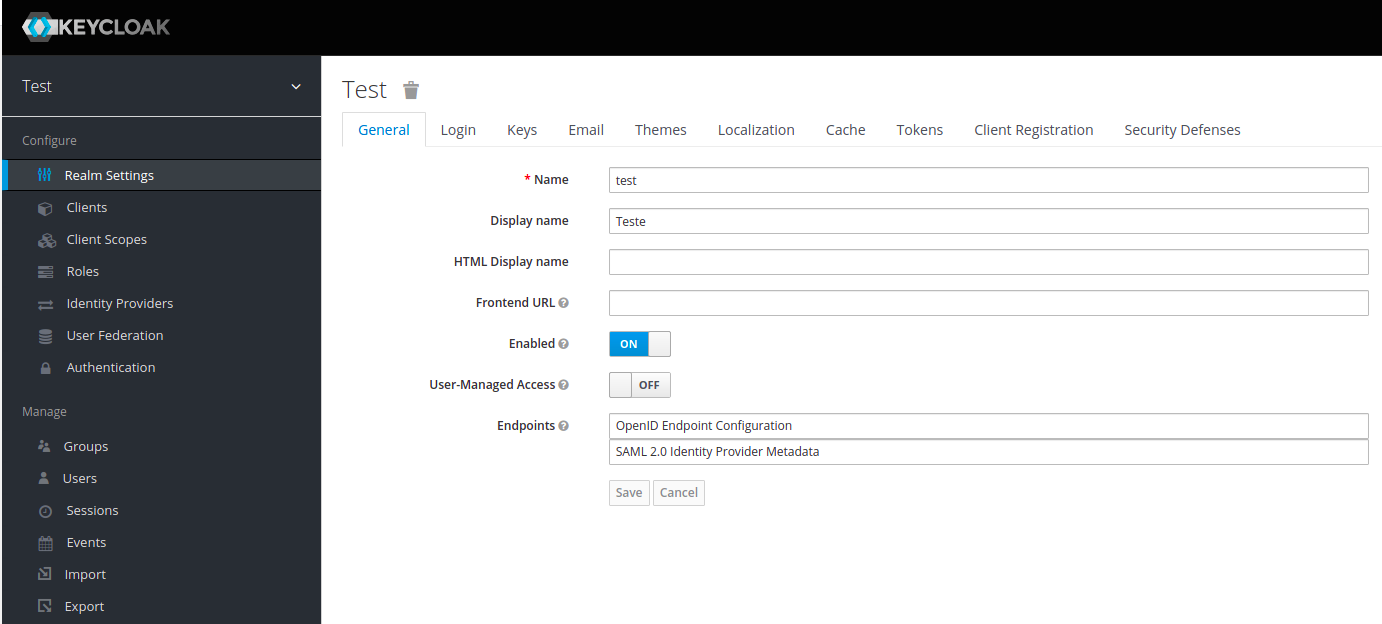
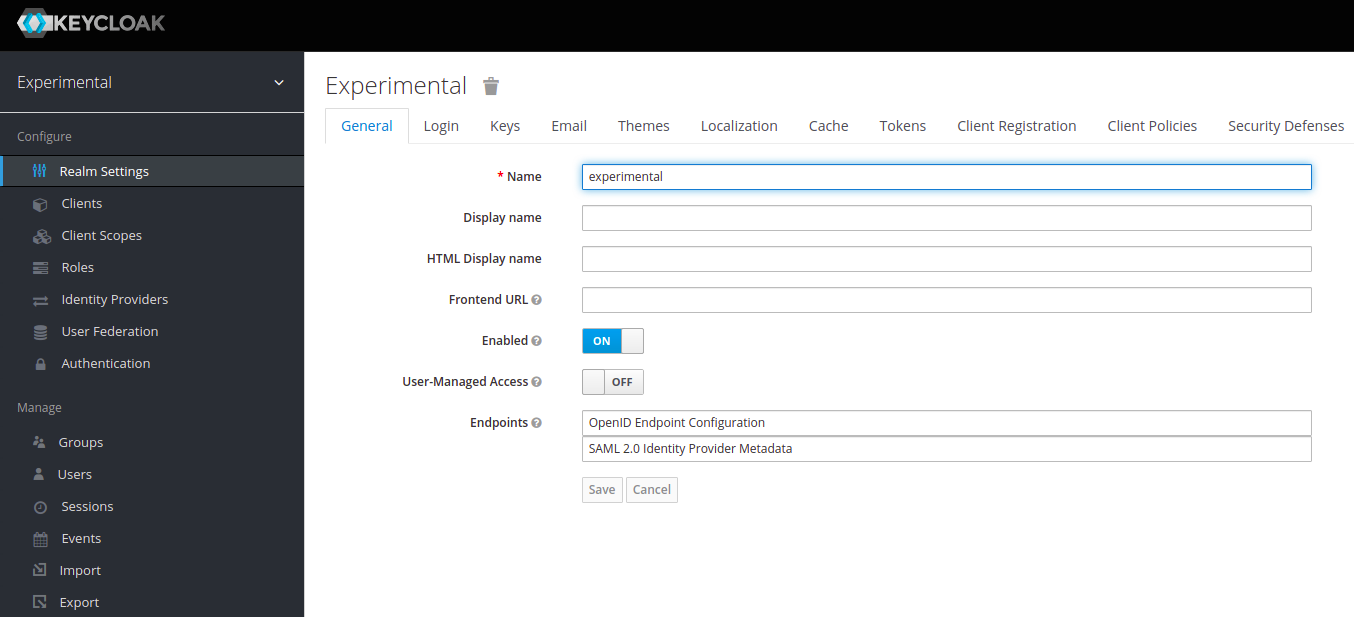
Configuring keycloak

diff --git a/README.md b/README.md
@@ -46,23 +46,25 @@ Access the BD folder and import the Dictionary.cvs, into the same instance of th
 At this point all services are expected to be running, and we can start the configuration.
 
 ### Login to the Admin console
-Using the URL: ```http://localhost:8180/auth/```, enter the **Keycloak Admin Console**, and log in using the previously chosen credentials(user: admin, password: admin).
+Using the URL: ```http://localhost:8180/auth/```, enter the **Keycloak Admin Console**, and log in using the previously chosen credentials(**user: admin, password: admin**).
 
 ### Create a Realm
-A realm in Keycloak is the equivalent of a tenant. There is a single realm in Keycloak called **master** by default. That is dedicated to managing Keycloak and should not be used for other purposes. To create the first realm:
-- Hover the mouse over the top-left corner where it says Master, then click on **Add realm**. 
-- Fill in the form (the only mandatory field is **Name**) 
-- Select **Create**, and we will get the **General** page for the Test realm, as shown in Figure 1, and where we can add additional information (do not forget to click on **Save**, if necessary).
+A realm in Keycloak is the equivalent of a tenant. There is a single domain in Keycloak called **master** by default. This is dedicated to Keycloak management and should not be used for other purposes. To create the first realm:
+- Hover over the top left corner where it says Master and click on **Add Kingdom**.
+- Fill in the form (the only mandatory field is **Name**)
+- Select **Create**, and we will get the **General** page for the **experimental** domain, as shown in Figure 1, and where we can add additional information (don't forget to click **Save**, if necessary).
 
 ![Figure 1 - Create a Realm](images/Figure1.png)
 
-### Create a Client
-In the example that follows, we will create an application client that will use a dedicated control flow that does not require any authentication from the user (within FISHY, this will be the most frequent case).
-- In the top-left drop-down list, select the previously created realm (Test, in the example, if it is not selected yet).
-- Click **Clients** in the left side menu to open the Clients page.
-- On the right-side, click **Create**.
-- We will create an **application client**. In the **Add Client** dialog box, give it an unique ID (e.g., **python_fishy**) and select the **OpenID-connect** protocol. After clicking **Save** we get the client configuration page.
-- On the **python_fishy client page** that appears, configure the fields as shown in Figure 2.
+### Creating customers
+
+## Kong Client(API Gateway)
+In the following example, we will need two clients the first one we will create is Kong this client will be responsible for the communication between the keycloak and the Kong (API Gateway).
+- In the drop-down list in the upper left corner, select the domain created earlier (Experimental in the example, if not already selected).
+- Click on **Customers** on the left side menu to open the Customers page.
+- On the right side, click **Create**.
+- We will create an **application client**. In the **Add Client** dialog, provide a unique ID (eg **kong**) and select the **OpenID-connect** protocol. After clicking **Save**, we get the client configuration page.
+- On the **kong client page** that appears, configure the fields as shown in Figure 2.
 
 ![Figure 2 - Client application settings](images/Figure2.png)
 
